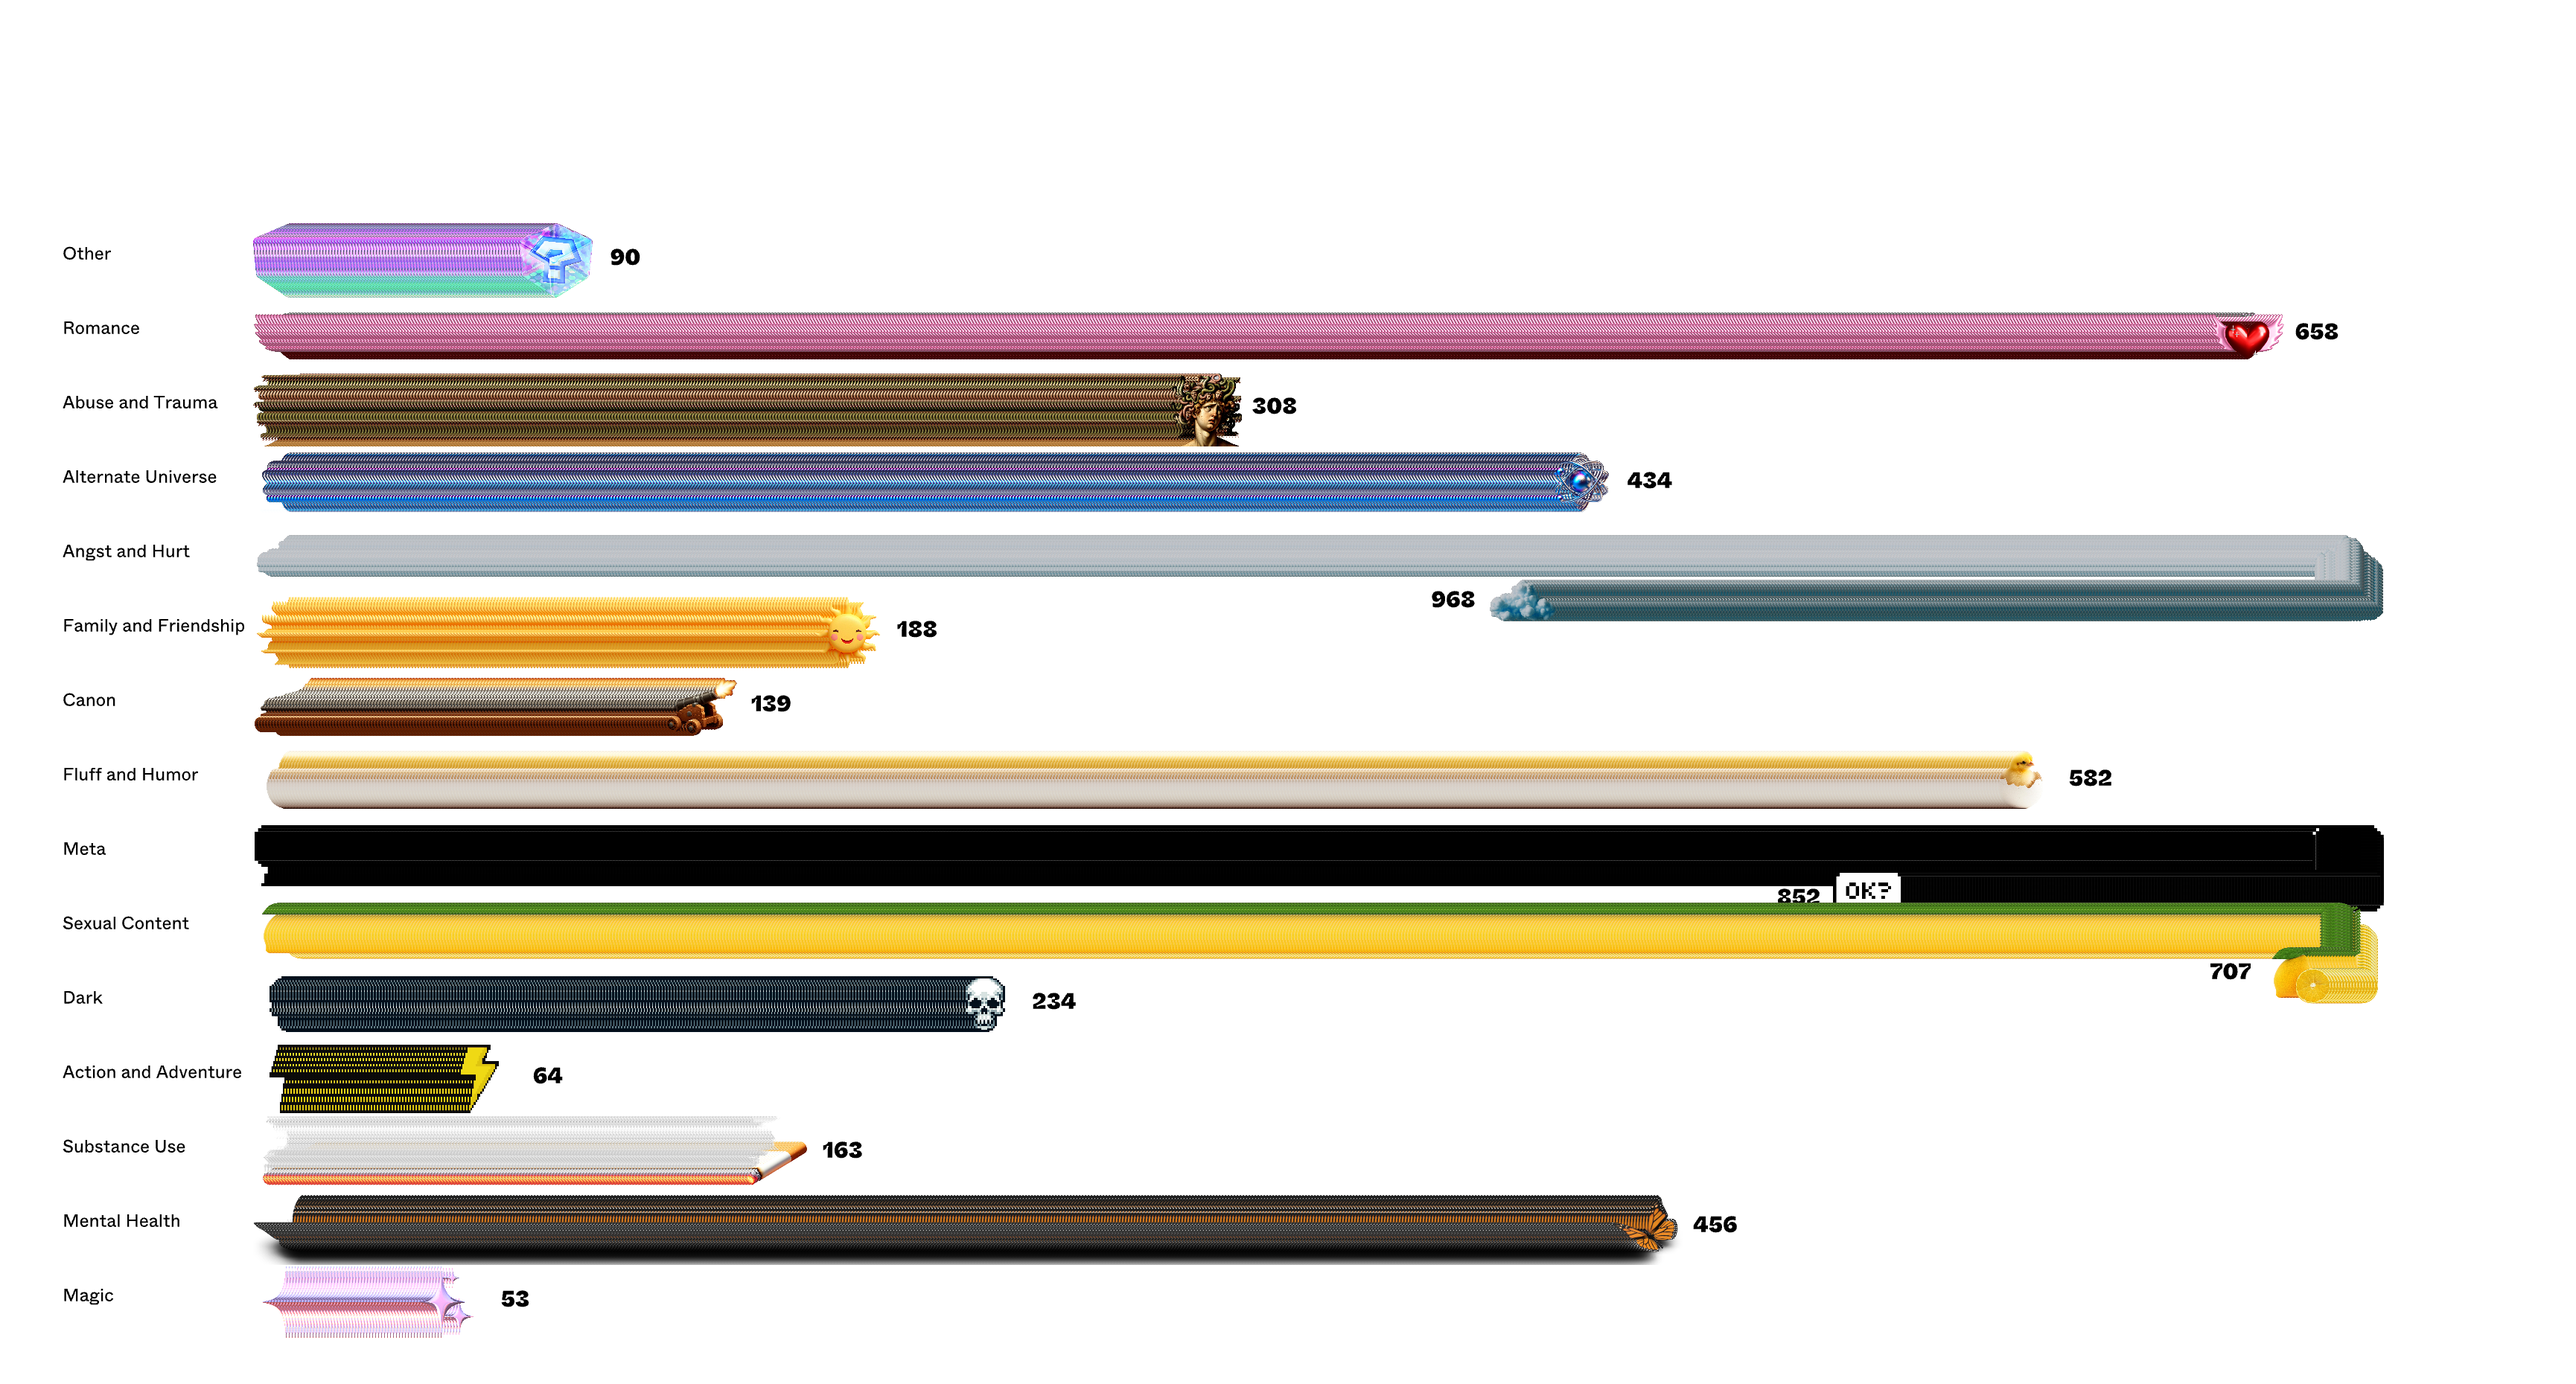
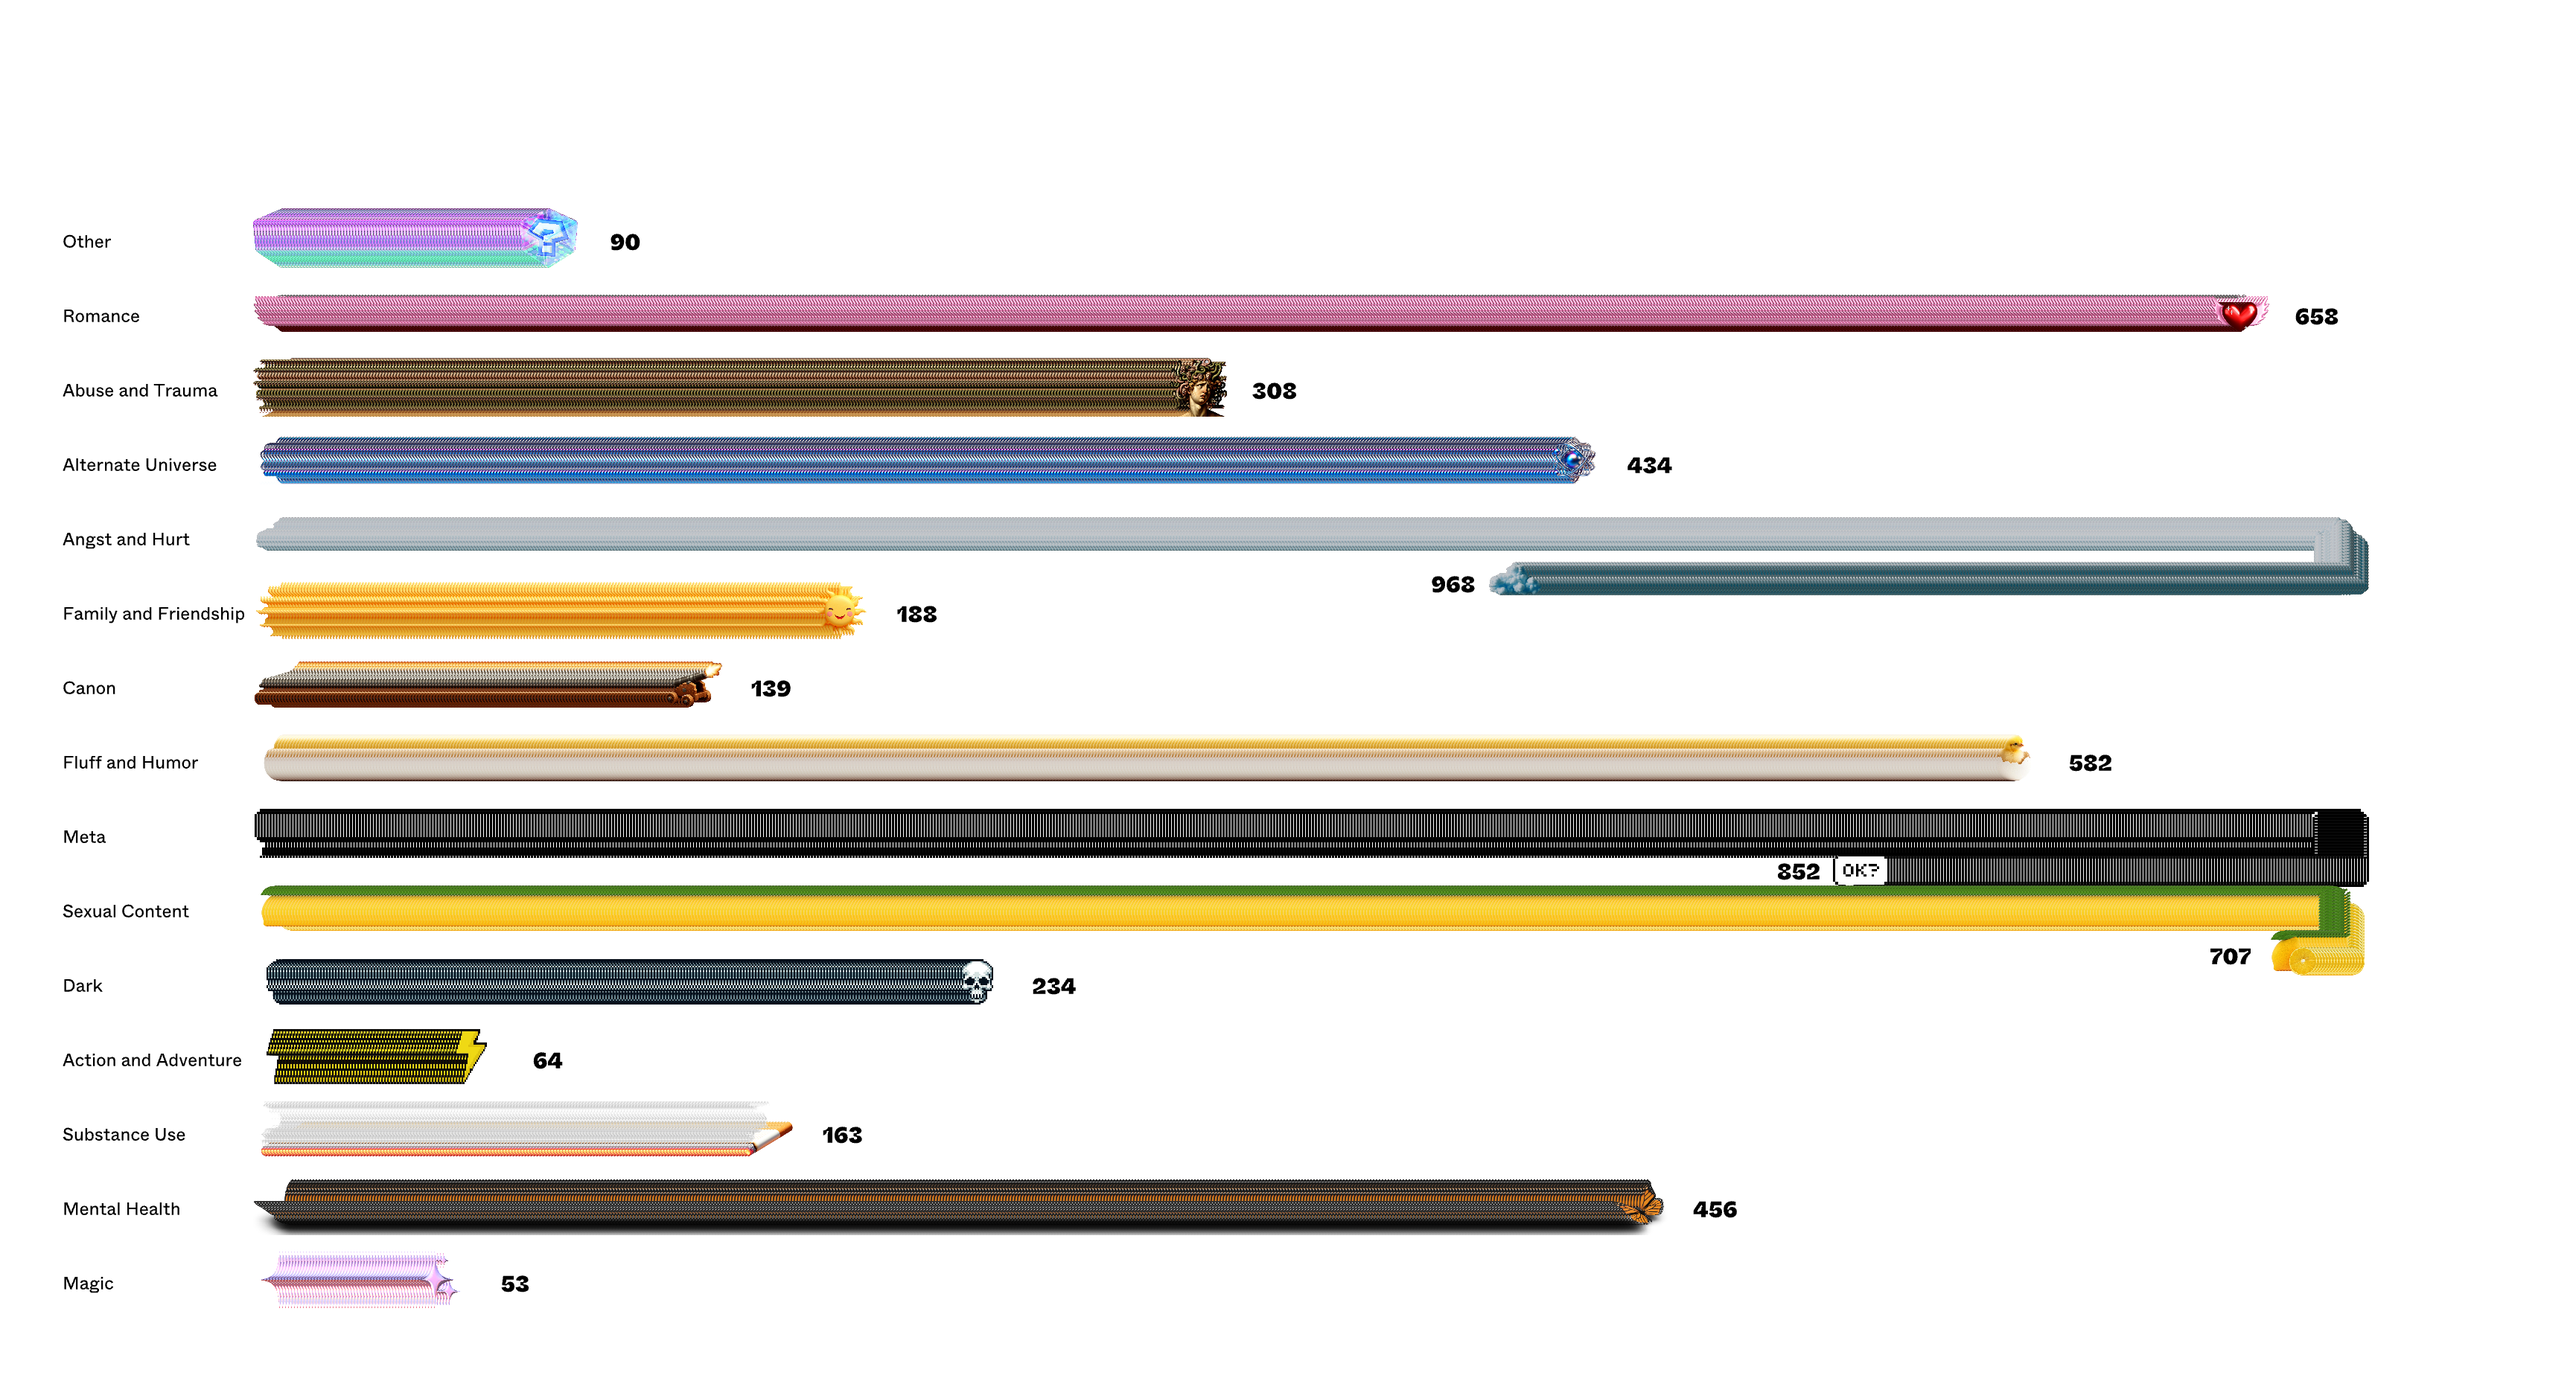
tags imgs

diff --git a/main.js b/main.js
@@ -10,17 +10,17 @@ window.popupLegendP5Tags = null;
 const fandomColors = {
     "Overall": { 
         relationship: "/content/background/Overall.png", 
-        overlay: "/content/background/Overall_T.png",
+        overlay: "/content/background/OverallT.png",
         color: "rgba(225, 255, 0, 0.475)" 
     },
     "Marvel": { 
         relationship: "/content/background/Marvel.png", 
-        overlay: "/content/background/Marvel_T.png",
+        overlay: "/content/background/MarvelT.png",
         color: "rgba(255, 0, 0, 0.473)" 
     },
     "Harry Potter": { 
         relationship: "/content/background/HarryPotter.png", 
-        overlay: "/content/background/Harry_T.png",
+        overlay: "/content/background/HarryT.png",
         color: "rgba(0, 255, 0, 0.509)" 
     },
     "Boku No Hero": { 
@@ -87,8 +87,8 @@ function showPage(page) {
         document.getElementById('tags-visualization').style.display = 'block';
         loadSketch(tagsSketch(false), 'banner-container-1', false);
         setActiveButton(document.getElementById('Overall-tags'));
-        document.getElementById('tags-overlay').style.backgroundImage = `url( "/content/background/Overall_T.png")`;
-        document.getElementById('tags-overlay').style.backgroundSize = 'contain';
+        document.getElementById('tags-overlay').style.backgroundImage = `url( "/content/background/OverallT.png")`;
+        document.getElementById('tags-overlay').style.backgroundSize = 'cover';
         document.getElementById('tags-overlay').style.backgroundRepeat = 'no-repeat';
         document.getElementById('tags-overlay').style.backgroundAttachment = 'fixed';
         togglePopup('popup-tags');
@@ -157,7 +157,7 @@ function loadTagData(dataUrl, fandom) {
     const overlayImage = fandomColors[fandom].overlay;
     if (overlayImage) {
         document.getElementById('tags-overlay').style.backgroundImage = `url(${overlayImage})`;
-        document.getElementById('tags-overlay').style.backgroundSize = 'contain';
+        document.getElementById('tags-overlay').style.backgroundSize = 'scale-down';
         document.getElementById('tags-overlay').style.backgroundRepeat = 'no-repeat';
         document.getElementById('tags-overlay').style.backgroundAttachment = 'fixed';
     } else {

diff --git a/tags.js b/tags.js
@@ -14,17 +14,17 @@ export function tagsSketch(isReverse) {
             "Overall": { 
                 ordered: "/content/background/Overall.png", 
                 color: "#8056c4af",
-                overlay: "/content/background/Overall_T.png",
+                overlay: "/content/background/OverallT.png",
             },
             "Marvel": { 
                 ordered: "/content/background/Marvel.png",
                 color: "#f0519ebf",
-                overlay: "/content/background/Marvel_T.png",
+                overlay: "/content/background/MarvelT.png",
             },
             "Harry Potter": { 
                 ordered: "/content/background/HarryPotter.png",
                 color: "#589bcfae",
-                overlay: "/content/background/Harry_T.png",
+                overlay: "/content/background/HarryT.png",
             },
             "Boku No Hero": { 
                 ordered: "/content/background/BokuNoHero.png",

diff --git a/style.css b/style.css
@@ -291,6 +291,7 @@ button:hover {
 #tags-overlay {
   position:fixed;
   transform: translateY(1rem);
+  top: 4rem;
   width: 100%;
   height: calc(100vh - 5rem);
   pointer-events: none; 
